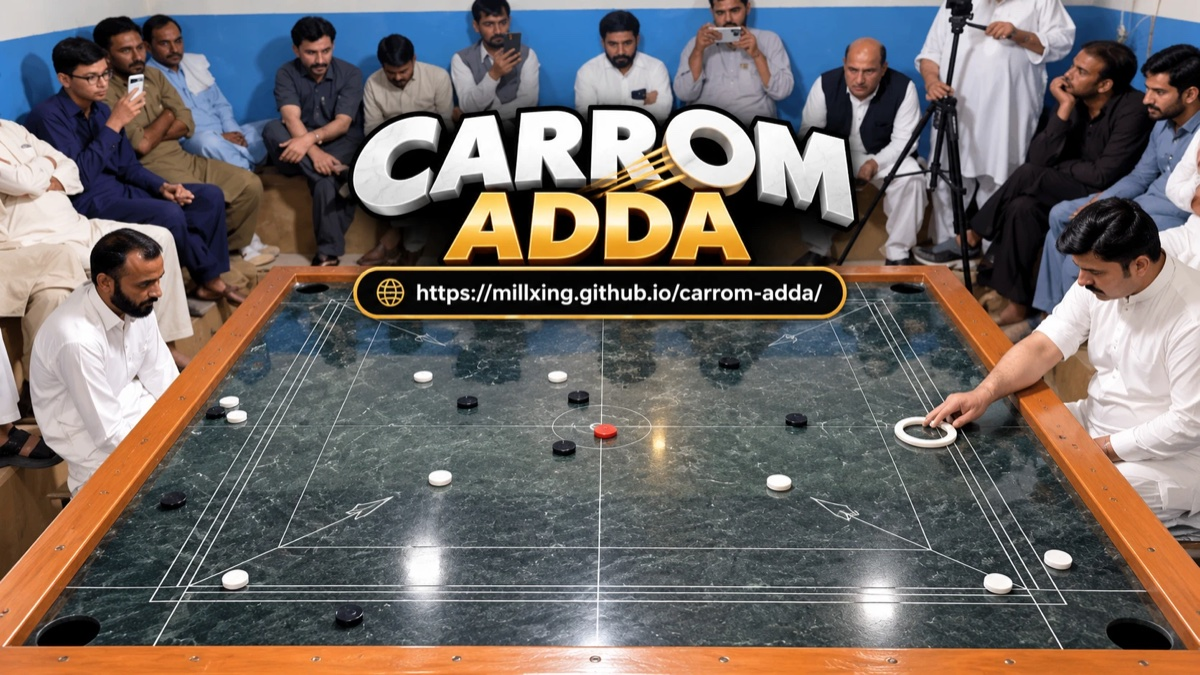
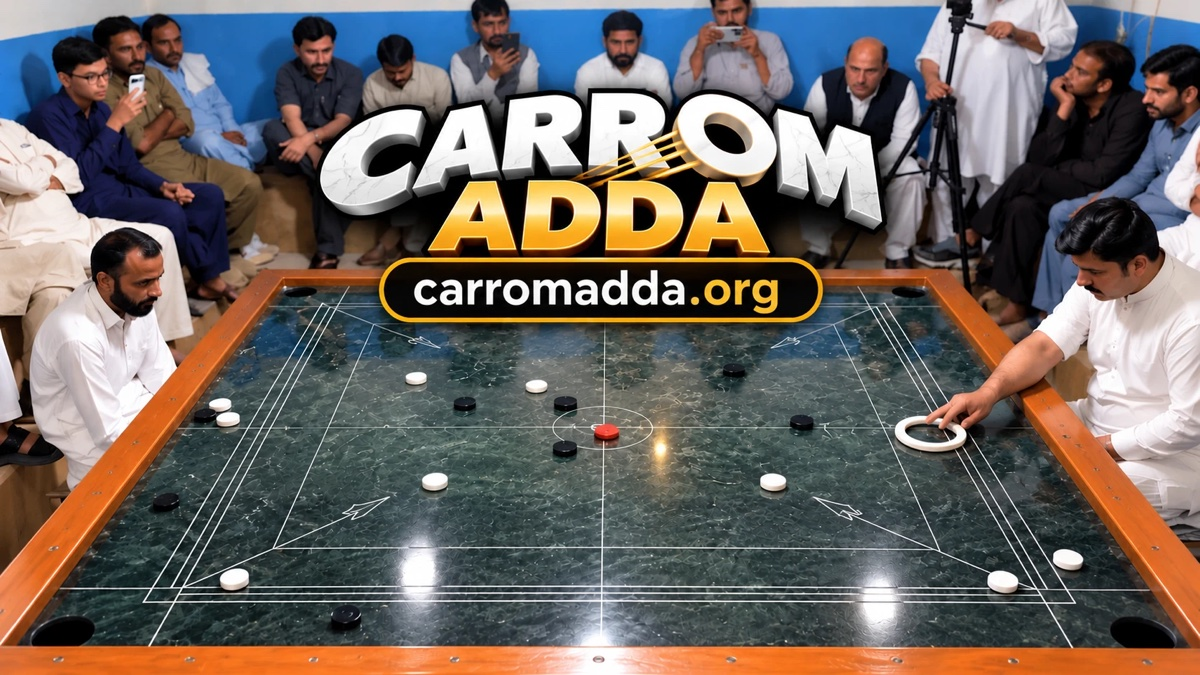
Social card: new image; update its alt text

diff --git a/index.html b/index.html
@@ -19,7 +19,7 @@
 <meta property="og:image" content="https://carromadda.org/social-card.jpg">
 <meta property="og:image:width" content="1200">
 <meta property="og:image:height" content="675">
-<meta property="og:image:alt" content="Carrom Adda: a carrom match on a marble board, with the site address">
+<meta property="og:image:alt" content="Carrom Adda: a crowd watching a carrom match, with the site address carromadda.org">
 <meta name="twitter:card" content="summary_large_image">
 <meta name="twitter:title" content="Carrom Adda">
 <meta name="twitter:description" content="Play carrom in your browser: against the AI, watch AI vs AI, or challenge a friend online.">
